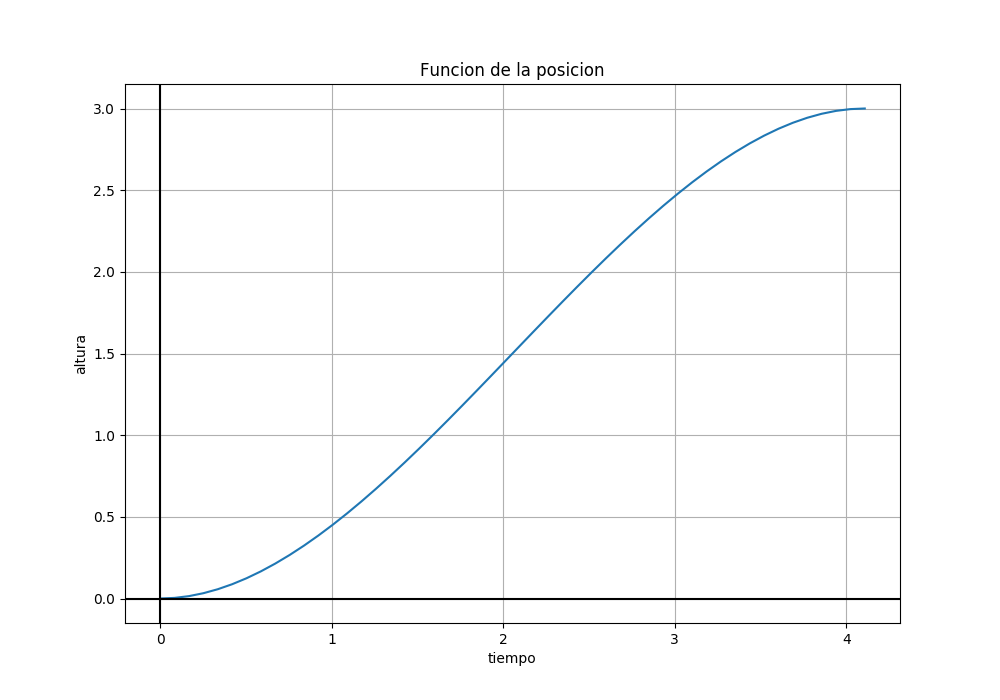
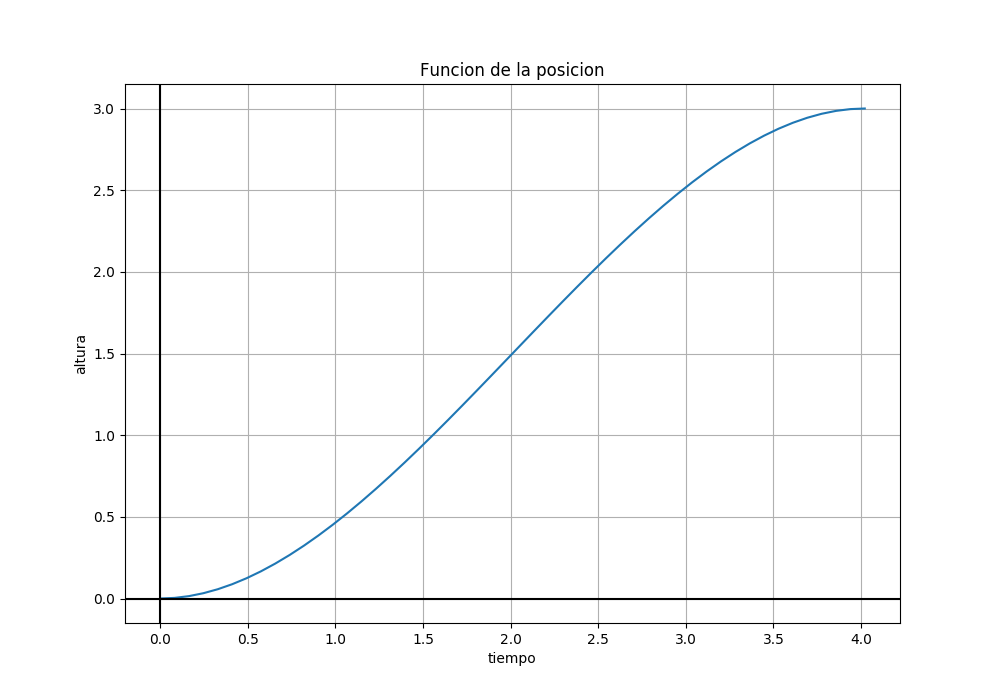
casi terminado

diff --git a/Tp1.py b/Tp1.py
@@ -17,11 +17,11 @@ import matplotlib.pylab as plt #Rutinas gráficas
 ##Constantes
 fuerza = 640 #Fuerza medida en newtons
 
-masa_cabina = 300 #peso cabina
+masa_cabina = 350 #peso cabina
 
 masa_persona = 75 #peso prom personas
 
-numero_personas = 6 #a determinar
+numero_personas = 3 #a determinar
 
 masa = masa_cabina + masa_persona*numero_personas
 
@@ -31,10 +31,12 @@ acel_maxima = fuerza/masa #aceleracion maxima posible
 
 tiempo_final = math.sqrt(18*masa/fuerza)
 
-
+tiempoEn30Porciento = ( (fuerza / masa) - acel_maxima * 0.3 ) * (masa/fuerza) * (tiempo_final / 2)
+print('El tiempo en 30 porciento es:',tiempoEn30Porciento)
+print('tiempo final', tiempo_final)
 print('-------------------------------------')
 print('La fuerza que voy a usar es ', fuerza, '[N]')
-print('-------------------------------------')
+print('------------------- ------------------')
 print('La masa que voy a usar es ', masa, '[Kg]')
 print('-------------------------------------')
 print('La altura que voy a usar es ', altura, '[m]')
@@ -55,6 +57,8 @@ def aceleracion(t):
     a = ( (fuerza/masa) * (1  - ((t*2) / tiempo_final)))
     return a
 
+print( tiempoEn30Porciento)
+X0 = posicion(tiempoEn30Porciento)
 
 
 #intento de grafico de posicion
@@ -87,7 +91,7 @@ plt.savefig('Grafico Velocidad')
 
 #intento de grafico de aceleracion
 
-x = np.linspace(0, tiempo_final ) #!!!!aca hay que cambiar el tiempofinal por otra cosa creo
+x = np.linspace(0, tiempo_final )
 y = aceleracion(x)
 plt.figure(figsize = (10,7))
 plt.plot(x, y)
@@ -99,163 +103,61 @@ plt.title('Funcion de la aceleracion')
 plt.grid(True)
 plt.savefig('Grafico Aceleracion')
 
-"""
-###Funciones busqueda de raices
-def fuerzaBruta(f, a, b, a_tol, n_max):
+
+
+def f(x):
+    fa = posicion(x) - X0
+    df = velocidad(x)
+    return fa, df
     
-    Devolver (x0, delta), raiz y cota de error por metodo de fuerza bruta (horrible)
-    
-    vector_x = np.linspace(a, b, n_max+1)
+TOL = 5E-16    # tolerancia
+MAXITER_B = 2  # biseccion   
+MAXITER_N = 60  # newthon
+a = 0
+b = tiempo_final
 
-    minimo = abs(f(a))
-    minimo_x = a
+formato_salida_N = '%03d %+.17E %+.3E %+.3E'#ver que es esto
+formato_salida_B = '%03d %+.17E %+.3E'
 
-    for x in vector_x :
-        valor_modulo = abs(f(x))
-        if valor_modulo < minimo :
-            minimo = valor_modulo
-            minimo_x = x
+fa = f(a)[0] 
+fb = f(b)[0]
+print("Método de bisección")
+if abs(fa) < TOL:
+    xo = a
+    print(formato_salida_B % (0, xo, fa))
+elif abs(fb) < TOL:
+    xo = b
+    print(formato_salida_B % (0, xo, fb))
+elif fb * fa < 0:
+    k = 0
+    fin = False
+    while k < MAXITER_B and not fin:
+        xo = (a + b) / 2
+        f_val = f(xo)[0]
+        print(formato_salida_B % (k, xo, f_val))
+        k += 1
+        if abs(f_val) < TOL:
+            fin = True
+        elif f(a)[0] * f_val < 0:
+            b = xo
+        else:
+            a = xo
+else:
+    print("El intervalo no contiene raíces")
+    xo = a
 
-    return minimo_x, (b-a)/2, n_max
-
-###def biseccion(f, a, b, a_tol, n_max):
-###  return x, delta, i+1
-
-def secante(f, x0, x1, a_tol, n_max):
-   
-    Devolver (x, delta), raiz y cota de error por metodo de la secante
-   
-    delta = 0
-
-    print('{0:^4} {1:^17} {2:^17} {3:^17}'.format('i', 'x', 'x_-1', 'delta'))
-    print('{0:4} {1: .14f} {2: .14f} {3: .14f}'.format(0, x1, x0, delta))
-
-    for i in range(n_max):
-        x = x1 - f(x1)*(x1-x0)/(f(x1)-f(x0))
-        delta = np.abs(x - x1)
-
-        x0 = x1
-        x1 = x
-
-        print('{0:4} {1: .14f} {2: .14f} {3: .14f}'.format(i+1, x1, x0, delta))
-
-        #Chequear convergencia
-        if delta <= a_tol: #Hubo convergencia
-            print('Hubo convergencia, n_iter = ' + str(i+1))
-            return x, delta, i+1
-
-    #Si todavia no salio es que no hubo convergencia:
-    raise ValueError('No hubo convergencia')
-    return x. delta, i+1
-
-##def newton_rapshon(f, x0, a_tol, n_max):
-##    return x. delta, i+1
-
-#Intervalo para buscar raiz
-l_izq = -100.0
-l_der = 100.0
-
-#Parametros para el algoritmo
-a_tol = 1e-15
-n_max = 200
-
-#Grafica de las funciones
-#Ver https://matplotlib.org
-print('--------------------')
-print('Graficando posicion')
-print('-------------------')
-print('')
-xx = np.linspace(l_izq, l_der, 256+1)
-yy = posicion(xx)
-nombre = 'Posicion'
-plt.figure(figsize=(10,7))
-plt.plot(xx, yy, lw=2)
-#plt.legend(loc=best)
-plt.xlabel('x')
-plt.ylabel(nombre +'(x)')
-plt.title('Funcion '+ nombre)
-plt.grid(True)
-plt.savefig(nombre + '.png')
-plt.show()
+print("Método de Newton")
+k = 0
+fin = False
+while k < MAXITER_N and not fin:
+    fo = f(xo)[0]
+    dfo = f(xo)[1]
+    xk = -fo / dfo + xo
+    e_u = (xo - xk) / xk
+    fin = abs(fo) < TOL and abs(e_u) < TOL
+    print(formato_salida_N % (k, xo, fo, e_u))
+    xo = xk
+    k += 1
 
 
-##print('--------------------')
-##print('Graficando velocidad')
-##print('-------------------')
-##print('')
-##xx = np.linspace(l_izq, l_der, 256+1)
-##yy = velocidad(xx)
-##nombre = 'Velocidad'
-##plt.figure(figsize=(10,7))
-##plt.plot(xx, yy, lw=2)
-###plt.legend(loc=best)
-##plt.xlabel('x')
-##plt.ylabel(nombre +'(x)')
-##plt.title('Funcion '+ nombre)
-##plt.grid(True)
-##plt.savefig(nombre + '.png')
-##plt.show()
-##
-###Grafica de las funciones
-###Ver https://matplotlib.org
-##print('--------------------')
-##print('Graficando aceleracion')
-##print('-------------------')
-##print('')
-##xx = np.linspace(l_izq, l_der, 256+1)
-##yy = aceleracion(xx)
-##nombre = 'Aceleracion'
-##plt.figure(figsize=(10,7))
-##plt.plot(xx, yy, lw=2)
-###plt.legend(loc=best)
-##plt.xlabel('x')
-##plt.ylabel(nombre +'(x)')
-##plt.title('Funcion '+ nombre)
-##plt.grid(True)
-##plt.savefig(nombre + '.png')
-##plt.show()
 
-print('----------------')
-print('Fuerza Bruta')
-print('----------------')
-print('')
-r, delta, n_iter = fuerzaBruta(posicion, l_izq, l_der, a_tol, n_max)
-print('Funcion f, a_tol = '+str(a_tol))
-print('raiz  = ' +str(r))
-print('delta = ' +str(delta))
-print('n_ite = ' +str(n_iter))
-print('')
-
-print('----------------')
-print('Metodo secante')
-print('----------------')
-print('')
-print('Funcion f, a_tol = '+str(a_tol))
-r, delta, n_iter = secante(posicion, l_izq, l_der, a_tol, n_max)
-print('raiz  = ' +str(r))
-print('delta = ' +str(delta))
-print('n_ite = ' +str(n_iter))
-print('')
-
-##print('----------------')
-##print('Metodo biseccion')
-##print('----------------')
-##print('')
-##print('Funcion f, a_tol = '+str(a_tol))
-##r, delta, n_iter = bisec(f, l_izq, l_der, a_tol, n_max)
-##print('raiz  = ' +str(r))
-##print('delta = ' +str(delta))
-##print('n_ite = ' +str(n_iter))
-##print('')
-
-##print('----------------')
-##print('Metodo NewtonRapshon')
-##print('----------------')
-##print('')
-##print('Funcion f, a_tol = '+str(a_tol))
-##r, delta, n_iter = secante(f, l_izq, l_der, a_tol, n_max)
-##print('raiz  = ' +str(r))
-##print('delta = ' +str(delta))
-##print('n_ite = ' +str(n_iter))
-##print('')
-"""
